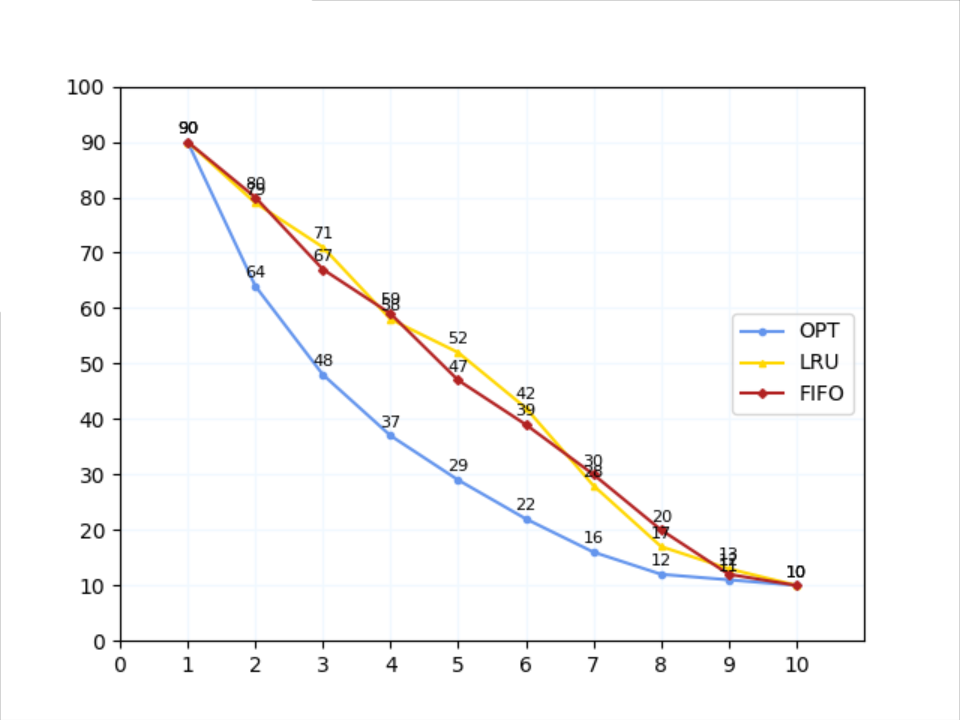
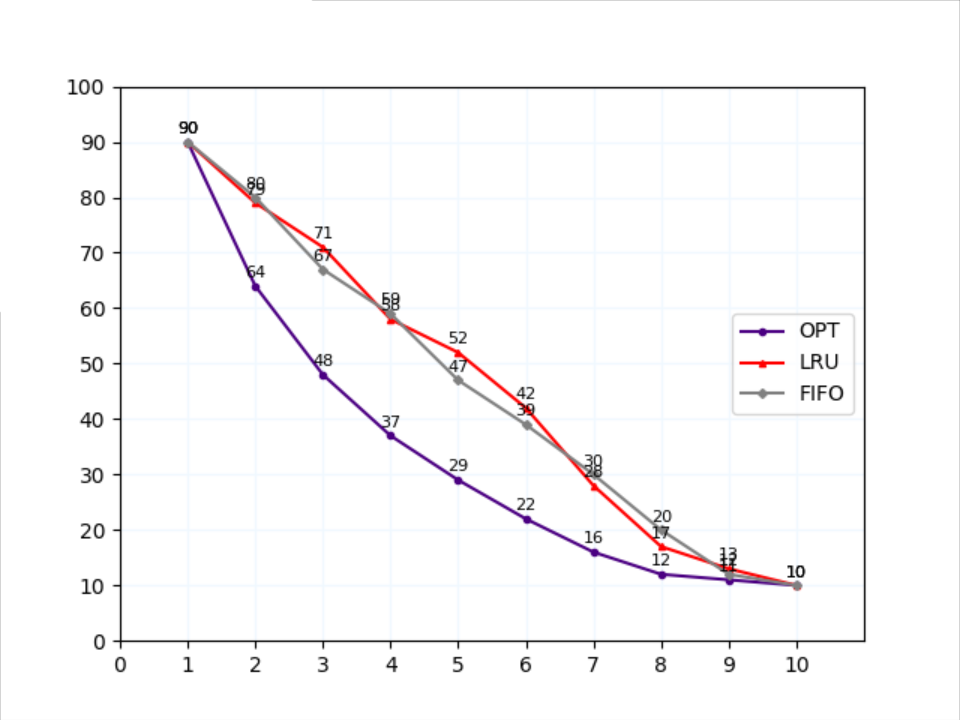
update outcome

diff --git a/OPT_LRU_FIFO.py b/OPT_LRU_FIFO.py
@@ -22,9 +22,9 @@ def show_axis():
 
 def show_graph(opt_faults, lru_faults, fifo_faults):
     show_axis()
-    ln1, = plt.plot(x, opt_faults, color='cornflowerblue', marker='o', markersize='3')
-    ln2, = plt.plot(x, lru_faults, color='gold', marker='^', markersize='3')
-    ln3, = plt.plot(x, fifo_faults, color='firebrick', marker='D', markersize='3')
+    ln1, = plt.plot(x, opt_faults, color='indigo', marker='o', markersize='3')
+    ln2, = plt.plot(x, lru_faults, color='red', marker='^', markersize='3')
+    ln3, = plt.plot(x, fifo_faults, color='grey', marker='D', markersize='3')
     plt.legend([ln1, ln2, ln3], ['OPT', 'LRU', 'FIFO'])
     for i in range(10):
         plt.text(i + 1, opt_faults[i] + 1, str(opt_faults[i]), ha='center', va='bottom', fontsize='8')

diff --git a/19373345-刘兆薰-第三次作业.md b/19373345-刘兆薰-第三次作业.md
@@ -1,3 +1,5 @@
+# OS第三次作业-刘兆薰 19373345
+
 ### 1. 在一个交换系统中，按内存地址排列的空闲区大小是: 10KB、4KB、20KB、18KB、7KB、 9KB、12KB和15KB。对于连续的段请求：12KB、10KB、9KB。使用FirstFit、BestFit、 WorstFit和NextFit将找出哪些空闲区？
 
 		FirstFit从前到后寻找第一个能够满足需求的内存块。12KB请求会找到3号20KB空闲区，分配后3号变为8KB；10KB请求会找到1号10KB空闲区，分配后1号空闲区全部占用；9KB请求会找到4号18KB空闲区，分配后4号变为9KB。FirstFit会使位置靠前的空闲区优先被分配，产生较多碎片。
@@ -63,69 +65,121 @@
 ### 6. 假设有10个页面，n个页框。页面的访问顺序为0, 9, 8, 4, 4, 3, 6, 5, 1, 5, 0, 2, 1, 1, 1, 1, 8, 8, 5, 3, 9, 8, 9, 9, 6, 1, 8, 4, 6, 4, 3, 7, 1, 3, 2, 9, 8, 6, 2, 9, 2, 7, 2, 7, 8, 4, 2, 3, 0, 1, 9, 4, 7, 1, 5, 9, 1, 7, 3, 4, 3, 7, 1, 0, 3, 5, 9, 9, 4, 9, 6, 1, 7, 5, 9, 4, 9, 7, 3, 6, 7, 7, 4, 5, 3, 5, 3, 1, 5, 6, 1, 1, 9, 6, 6, 4, 0, 9, 4, 3。当n在[1,10]中取值时，请编写程序实现OPT、LRU、FIFO页面置换算法，并根据页面访问顺序模拟执行，分别计算缺页数量，画出缺页数量随页框数n的变化曲线（3条线）。
 
 ```python
-def opttoreplace(i, frameusage):
-    futurelist = pagevisitlist[i+1:]
-    toreplace = frameusage[0]
-    nextuse = 0
-    for page in frameusage:
-        if page in futurelist:
-            if futurelist.index(page) > nextuse:
-                toreplace = page
-                nextuse = futurelist.index(page)
+import matplotlib.pyplot as plt
+
+x = [1, 2, 3, 4, 5, 6, 7, 8, 9, 10]
+
+def show_axis():
+    plt.xlim(0, 11)
+    plt.xticks([0, 1, 2, 3, 4, 5, 6, 7, 8, 9, 10])
+    plt.ylim(0, 100)
+    plt.yticks([0, 10, 20, 30, 40, 50, 60, 70, 80, 90, 100])
+    for i in range(10):
+        plt.plot([0, 11], [(i+1)*10, (i+1)*10], linewidth='1', color='aliceblue')
+        plt.plot([i+1, i+1], [0, 100], linewidth='1', color='aliceblue')
+
+
+def show_graph(opt_faults, lru_faults, fifo_faults):
+    show_axis()
+    ln1, = plt.plot(x, opt_faults, color='cornflowerblue', marker='o', markersize='3')
+    ln2, = plt.plot(x, lru_faults, color='gold', marker='^', markersize='3')
+    ln3, = plt.plot(x, fifo_faults, color='firebrick', marker='D', markersize='3')
+    plt.legend([ln1, ln2, ln3], ['OPT', 'LRU', 'FIFO'])
+    for i in range(10):
+        plt.text(i + 1, opt_faults[i] + 1, str(opt_faults[i]), ha='center', va='bottom', fontsize='8')
+        plt.text(i + 1, lru_faults[i] + 1, str(lru_faults[i]), ha='center', va='bottom', fontsize='8')
+        plt.text(i + 1, fifo_faults[i] + 1, str(fifo_faults[i]), ha='center', va='bottom', fontsize='8')
+    plt.show()
+
+page_visit_list = [0, 9, 8, 4, 4, 3, 6, 5, 1, 5,
+                   0, 2, 1, 1, 1, 1, 8, 8, 5, 3,
+                   9, 8, 9, 9, 6, 1, 8, 4, 6, 4,
+                   3, 7, 1, 3, 2, 9, 8, 6, 2, 9,
+                   2, 7, 2, 7, 8, 4, 2, 3, 0, 1,
+                   9, 4, 7, 1, 5, 9, 1, 7, 3, 4,
+                   3, 7, 1, 0, 3, 5, 9, 9, 4, 9,
+                   6, 1, 7, 5, 9, 4, 9, 7, 3, 6,
+                   7, 7, 4, 5, 3, 5, 3, 1, 5, 6,
+                   1, 1, 9, 6, 6, 4, 0, 9, 4, 3]
+
+
+def opt_to_replace(i, frame_usage):
+    future_list = page_visit_list[i+1:]
+    to_replace = frame_usage[0]
+    next_use = 0
+    for page in frame_usage:
+        if page in future_list:
+            if future_list.index(page) > next_use:
+                to_replace = page
+                next_use = future_list.index(page)
         else:
-            toreplace = page
+            to_replace = page
             break
-    return toreplace
+    return to_replace
 
 
-def opt(framenum):
-    pagefault = 0
-    frameusage = []
-    toreplace = 0
-    for i in range(len(pagevisitlist)):
-        page = pagevisitlist[i]
-        if page in frameusage:
-            toreplace = opttoreplace(i, frameusage)
+def opt(frame_num):
+    page_fault = 0
+    frame_usage = []
+    to_replace = 0
+    for i in range(len(page_visit_list)):
+        page = page_visit_list[i]
+        if page in frame_usage:
+            to_replace = opt_to_replace(i, frame_usage)
             continue
-        pagefault = pagefault + 1
-        if len(frameusage) < framenum:
-            frameusage.append(page)
-            toreplace = opttoreplace(i, frameusage)
+        page_fault = page_fault + 1
+        if len(frame_usage) < frame_num:
+            frame_usage.append(page)
+            to_replace = opt_to_replace(i, frame_usage)
             continue
-        frameusage[frameusage.index(toreplace)] = page
-        toreplace = opttoreplace(i, frameusage)
-    return pagefault
-
-def lru(framenum):
-    pagefault = 0
-    frameusage = []
-    for page in pagevisitlist:
-        if page in frameusage:
-            frameusage.remove(page)
-            frameusage.append(page)
-            continue
-        pagefault = pagefault + 1
-        if len(frameusage) < framenum:
-            frameusage.append(page)
-            continue
-        frameusage.remove(frameusage[0])
-        frameusage.append(page)
-    return pagefault
+        frame_usage[frame_usage.index(to_replace)] = page
+        to_replace = opt_to_replace(i, frame_usage)
+    return page_fault
 
 
-def fifo(framenum):
-    pagefault = 0
-    frameusage = []
-    for page in pagevisitlist:
-        if page in frameusage:
+def lru(frame_num):
+    page_fault = 0
+    frame_usage = []
+    for page in page_visit_list:
+        if page in frame_usage:
+            frame_usage.remove(page)
+            frame_usage.append(page)
             continue
-        pagefault = pagefault + 1
-        if len(frameusage) < framenum:
-            frameusage.append(page)
+        page_fault = page_fault + 1
+        if len(frame_usage) < frame_num:
+            frame_usage.append(page)
             continue
-        frameusage.remove(frameusage[0])
-        frameusage.append(page)
-    return pagefault
+        frame_usage.remove(frame_usage[0])
+        frame_usage.append(page)
+    return page_fault
+
+
+def fifo(frame_num):
+    page_fault = 0
+    frame_usage = []
+    for page in page_visit_list:
+        if page in frame_usage:
+            continue
+        page_fault = page_fault + 1
+        if len(frame_usage) < frame_num:
+            frame_usage.append(page)
+            continue
+        frame_usage.remove(frame_usage[0])
+        frame_usage.append(page)
+    return page_fault
+
+
+if __name__ == '__main__':
+    opt_faults, lru_faults, fifo_faults = [], [], []
+    for i in range(10):
+        opt_faults.append(opt(i+1))
+        lru_faults.append(lru(i+1))
+        fifo_faults.append(fifo(i+1))
+    show_graph(opt_faults, lru_faults, fifo_faults)
+    print(opt_faults)
+    print(lru_faults)
+    print(fifo_faults)
+    print('Done.')
 ```
 
 | 物理页框数 | 1    | 2    | 3    | 4    | 5    | 6    | 7    | 8    | 9    | 10   |
@@ -135,6 +189,10 @@ def fifo(framenum):
 | **FIFO**   | 90   | 80   | 67   | 59   | 47   | 39   | 30   | 20   | 12   | 10   |
 
 利用`Matplotlib`：
+
+![outcome](C:\Users\Zhaox\Desktop\BUAA\Schoolworks\大二下\OS\3rd\buaa-os-3rd-theoritical-OPT_LRU_FIFO\outcome.png)
+
+
 
 ### 7. 一个32位的虚拟存储系统有两级页表，其逻辑地址中，第22到31位是第一级页表，12 位到21位是第二级页表，页内偏移占0到11位。一个进程的地址空间为4GB，如果从 0x80000000开始映射4MB大小页表空间，请问第一级页表所占4KB空间的起始地址？并说明理由。（注意B代表字节，一个32位地址占4字节）
 
